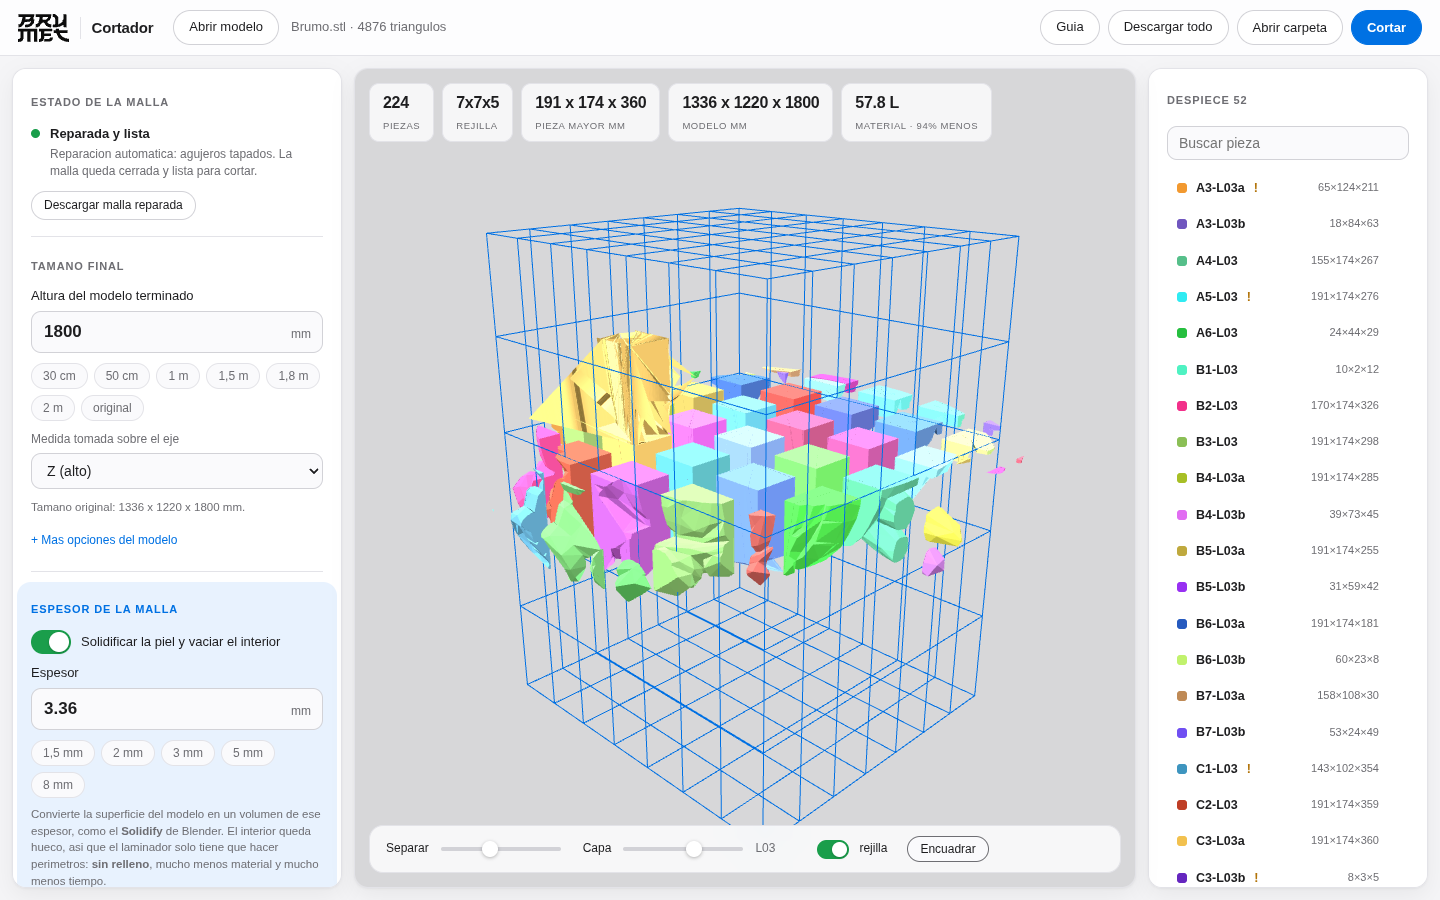
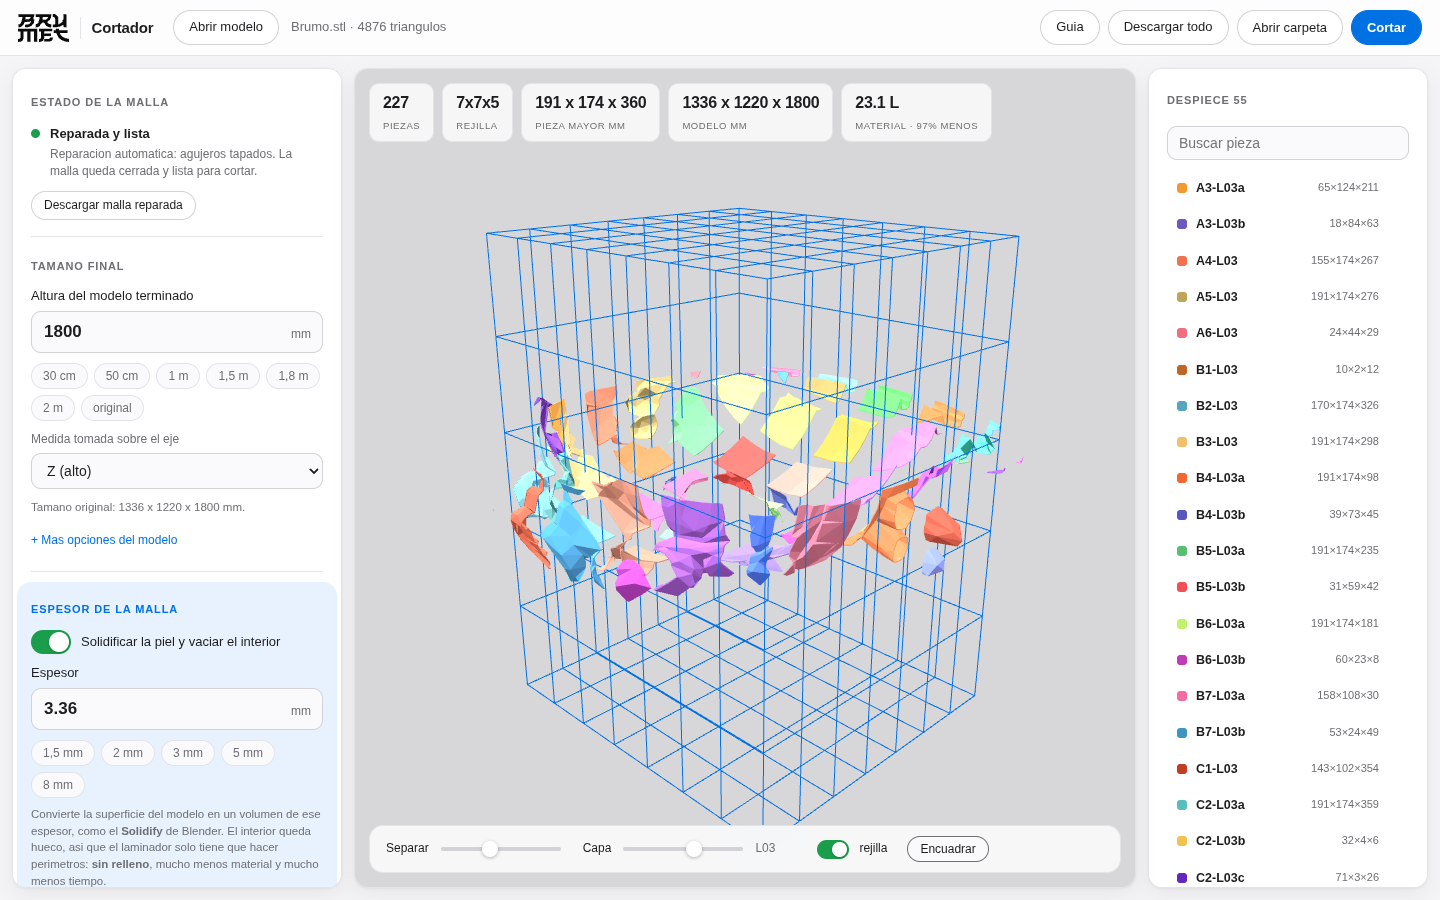
Vaciar el modelo entero antes de cortar, no cada trozo despues
Brumet lo vio en la vista explosionada: entre las piezas salian cubos que no
tocaban la superficie del modelo. El motor cortaba primero y solidificaba cada
trozo por separado, asi que cada trozo acababa siendo una caja cerrada, con
paredes en sus caras de corte, y los trozos del centro eran cubos huecos que no
aportan nada.

Lo que el pidio desde el principio es lo contrario: solo la piel, con su
espesor, y hueco por dentro. Ahora se solidifica la malla entera y se corta esa
cascara, asi que cada pieza es un trozo de piel y el centro no existe.

En Brumo a 1,80 m en una FLSUN V400: 23,1 litros en vez de 57,8 (97 % menos en
vez de 94 %), 227 piezas, ninguna maciza, todas cerradas. Si el vaciado entero
falla (malla abierta, pared que no cabe), se avisa y se sigue con el metodo de
antes en vez de quedarse sin nada.

Las pruebas comprueban lo que se rompio: que las piezas ocupan una fraccion
pequena de su caja, que el material total es el de la piel del modelo y que la
celda del centro de un cubo hueco no genera ninguna pieza.

Claude-Session: https://claude.ai/code/session_01JgVLBbgaQY1jaN7fB5Dubg

Changed region(s): [[0.3438, 0.3733, 0.7188, 0.6844], [0.5938, 0.0933, 0.625, 0.1244]]

diff --git a/tests/test_hollow.py b/tests/test_hollow.py
@@ -272,10 +272,28 @@ def test_tambien_se_limpian_las_motas_en_macizo():
 
 
 def test_una_pieza_hueca_no_se_parte_en_dos():
-    """La piel y la camara interior son una sola pieza, no dos."""
+    """Una piel con camara interior es una sola pieza, no dos."""
+    import numpy as np
+    import trimesh
+    from cortador.slicer import _reunir_cavidades
+
+    fuera = trimesh.creation.box(extents=[40.0, 40.0, 40.0])
+    dentro = trimesh.creation.box(extents=[30.0, 30.0, 30.0])
+    dentro.invert()
+    partes = [fuera, dentro]
+    assert len(_reunir_cavidades(partes)) == 1
+
+
+def test_las_piezas_son_piel_no_cajas():
+    """El corte reparte la piel del modelo; no fabrica cajitas cerradas.
+
+    Es el fallo que se corrigio: si se corta primero y se vacia cada trozo
+    despues, cada trozo sale como una caja con paredes en las caras de corte y
+    los del centro salen como cubos huecos que no aportan nada.
+    """
     import trimesh
     from cortador.config import LabelOptions, PrinterSpec, SliceConfig
-    from cortador.slicer import _reunir_cavidades, slice_model
+    from cortador.slicer import slice_model
 
     esfera = trimesh.creation.icosphere(subdivisions=4, radius=80)
     res = slice_model(esfera, SliceConfig(printer=PrinterSpec(100, 100, 100),
@@ -285,12 +303,31 @@ def test_una_pieza_hueca_no_se_parte_en_dos():
     for pieza in res.pieces:
         assert pieza.mesh.is_watertight
         assert pieza.mesh.volume > 0         # el hueco no cuenta como pieza
+        # una pieza de piel ocupa una fraccion pequena de su caja
+        assert pieza.mesh.volume < 0.35 * float(pieza.mesh.bounding_box.volume)
 
-    # y la funcion por separado
-    hueca = res.pieces[0].mesh
-    partes = hueca.split(only_watertight=False)
-    assert len(partes) == 2                  # piel + camara
-    assert len(_reunir_cavidades(partes)) == 1
+    # el material total es el de la piel del modelo entero, no el de ocho cajas
+    from cortador.hollow import hollow_mesh
+    piel, aviso = hollow_mesh(esfera, 4.0)
+    assert aviso is None
+    assert res.hollow_volume < piel.volume * 1.25
+
+
+def test_el_centro_de_un_modelo_hueco_no_genera_piezas():
+    """Dentro de la camara no hay material, asi que no hay nada que cortar."""
+    import trimesh
+    from cortador.config import LabelOptions, PrinterSpec, SliceConfig
+    from cortador.slicer import slice_model
+
+    cubo = trimesh.creation.box(extents=[300.0, 300.0, 300.0])
+    res = slice_model(cubo, SliceConfig(printer=PrinterSpec(110, 110, 110),
+                                        hollow=True, wall=5.0,
+                                        labels=LabelOptions(enabled=False)))
+    # rejilla de 3x3x3 = 27 celdas, pero la del centro esta hueca
+    assert res.plan.total_cells == 27
+    centros = [p for p in res.pieces if tuple(p.index) == (1, 1, 1)]
+    assert not centros, [p.name for p in centros]
+    assert res.count <= 26
 
 
 def test_se_descartan_las_rebabas_finas():

diff --git a/cortador/slicer.py b/cortador/slicer.py
@@ -181,6 +181,24 @@ def slice_model(mesh: trimesh.Trimesh,
     total_steps = plan.total_cells
     report(0, total_steps, "Cortando")
 
+    # En modo trozos se vacia PRIMERO el modelo entero y luego se corta la piel.
+    # Al reves (cortar y vaciar cada trozo) cada trozo acaba siendo una cajita
+    # cerrada: aparecen paredes en las caras de corte, los trozos del centro
+    # salen como cubos huecos que no aportan nada, y se gasta material de mas.
+    # Vaciando antes, cada pieza es un trozo de piel y el centro no existe.
+    piel = False
+    if cfg.hollow and cfg.mode == "chunks":
+        report(0, 1, "Solidificando la piel")
+        hueca, aviso = hollow_mesh(work, cfg.wall)
+        if aviso is None and hueca is not work and not is_empty(hueca):
+            work = hueca
+            piel = True
+        else:
+            warnings.append(
+                (aviso or "No se ha podido vaciar el modelo entero") +
+                " Se vacia trozo a trozo, que gasta algo mas de material."
+            )
+
     if cfg.mode == "slabs" and cfg.slab_style == "prism":
         raw = _build_prisms(work, plan, cfg, report)
     else:
@@ -188,7 +206,7 @@ def slice_model(mesh: trimesh.Trimesh,
 
     if cfg.hollow and cfg.mode == "slabs" and cfg.slab_style == "solid":
         raw = _hollow_slabs(raw, plan, cfg, report)
-    elif cfg.hollow and cfg.mode == "chunks":
+    elif cfg.hollow and cfg.mode == "chunks" and not piel:
         raw, fallos = _hollow_chunks(raw, cfg, report)
         if fallos:
             warnings.append(

diff --git a/README.md b/README.md
@@ -26,9 +26,8 @@ terminado** y **cuanto mide tu impresora**, y Cortador hace dos cosas:
    pieza se sale de la cama.
 
 Con **Brumo**, la mascota de Brumet, a 1,80 m de alto en una FLSUN V400: de
-**901 litros macizo a 57,8** (94 % menos de material y de horas de maquina), en
-224 piezas que caben todas en la cama redonda. Con un gorila del mismo tamano en
-una Ender 3, de 1.024 litros a 22.
+**901 litros macizo a 23** (97 % menos de material y de horas de maquina), en
+227 piezas que caben todas en la cama redonda.
 
 Cada pieza sale **marcada con su nombre grabado** y, si quieres, con **pasadores
 de alineacion**, para que luego puedas armar el modelo entero sin volverte loco.
@@ -37,9 +36,9 @@ Es una **aplicacion de escritorio**: se abre en su propia ventana, no en el
 navegador. Todo ocurre **en tu equipo**, funciona sin conexion y ningun modelo se
 sube a ningun servidor. Codigo libre con licencia MIT.
 
-![Brumo cortado en 224 piezas](docs/panel.png)
+![Brumo cortado en 227 piezas de piel](docs/panel.png)
 
-<p align="center"><i>Brumo, 1,80 m de alto, en 224 piezas para una FLSUN V400</i></p>
+<p align="center"><i>Brumo, 1,80 m de alto, en 227 piezas de piel para una FLSUN V400</i></p>
 
 <p align="center"><i>La rejilla de corte se dibuja encima del modelo antes de cortar nada</i></p>
 
@@ -269,6 +268,17 @@ numeros exactos para tu perfil:
 
 En el panel tienes la calculadora al lado: pones **perimetros x ancho de linea**
 y te da el espesor exacto (4 perimetros de 0,4 mm = 1,6 mm de pared).
+
+### Primero la piel, despues el corte
+
+El orden importa, y mucho. Cortador **vacia el modelo entero primero** y luego
+parte esa piel en piezas. Cada pieza es un trozo de cascara.
+
+Si se hace al reves (cortar y vaciar cada trozo), cada trozo sale como una
+**cajita cerrada**: aparecen paredes en las caras de corte que no aportan nada,
+los trozos del centro salen como cubos huecos que no tocan la superficie, y se
+gasta el doble de material. En Brumo a 1,80 m: **23 litros haciendolo bien,
+57,8 haciendolo al reves**.
 
 ### Como lo hace
 
